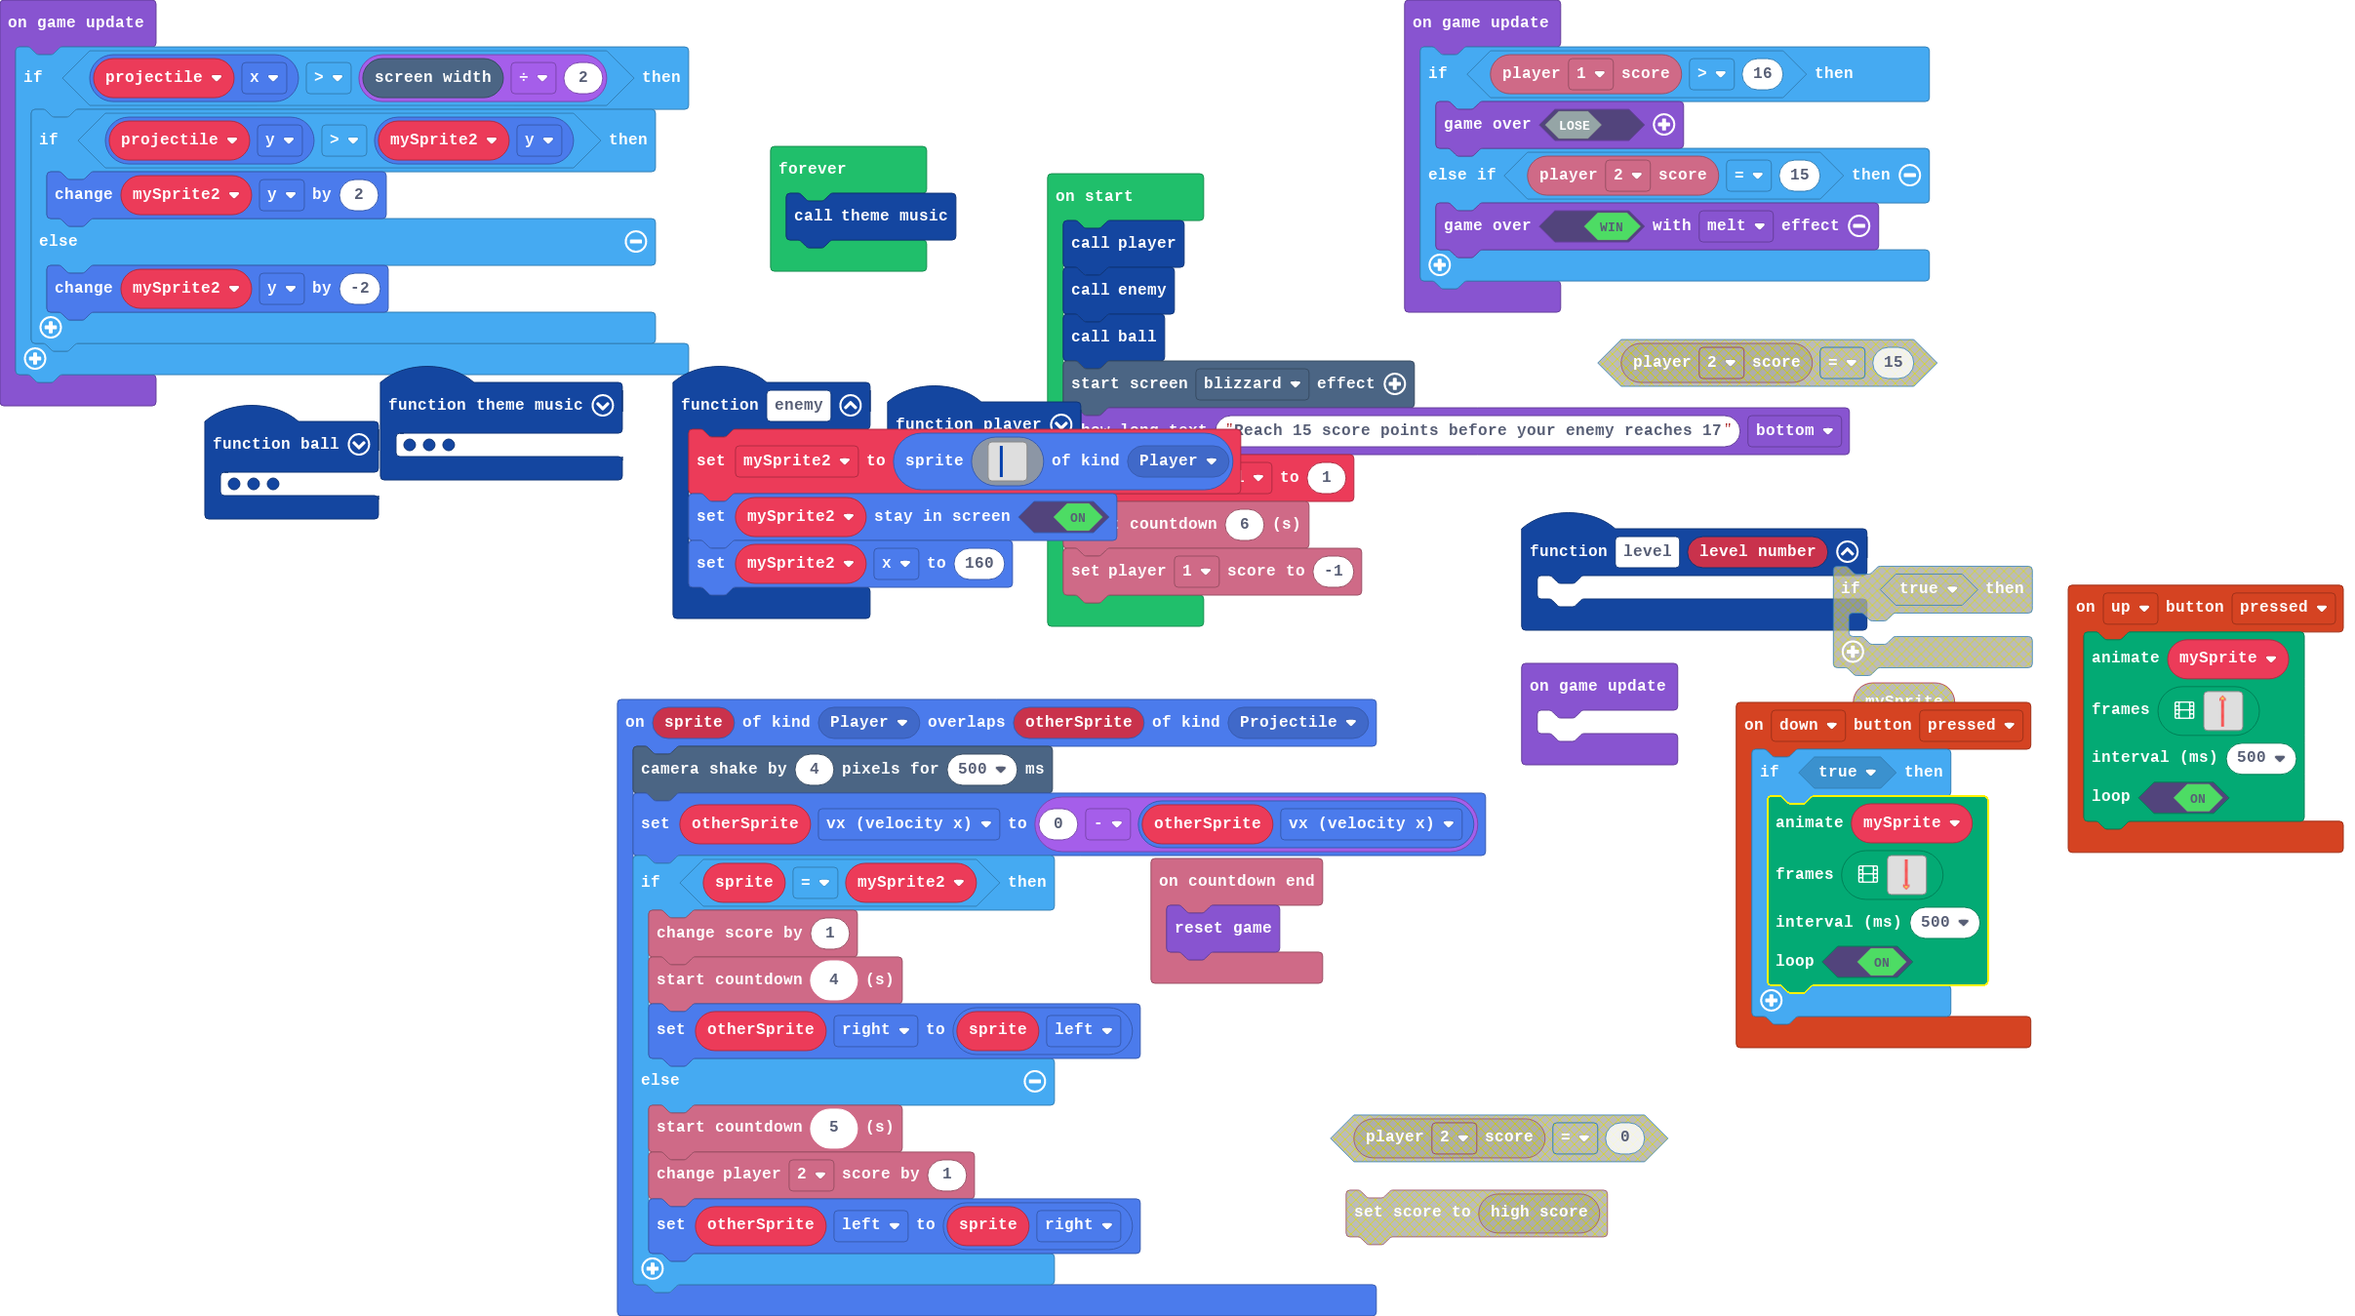
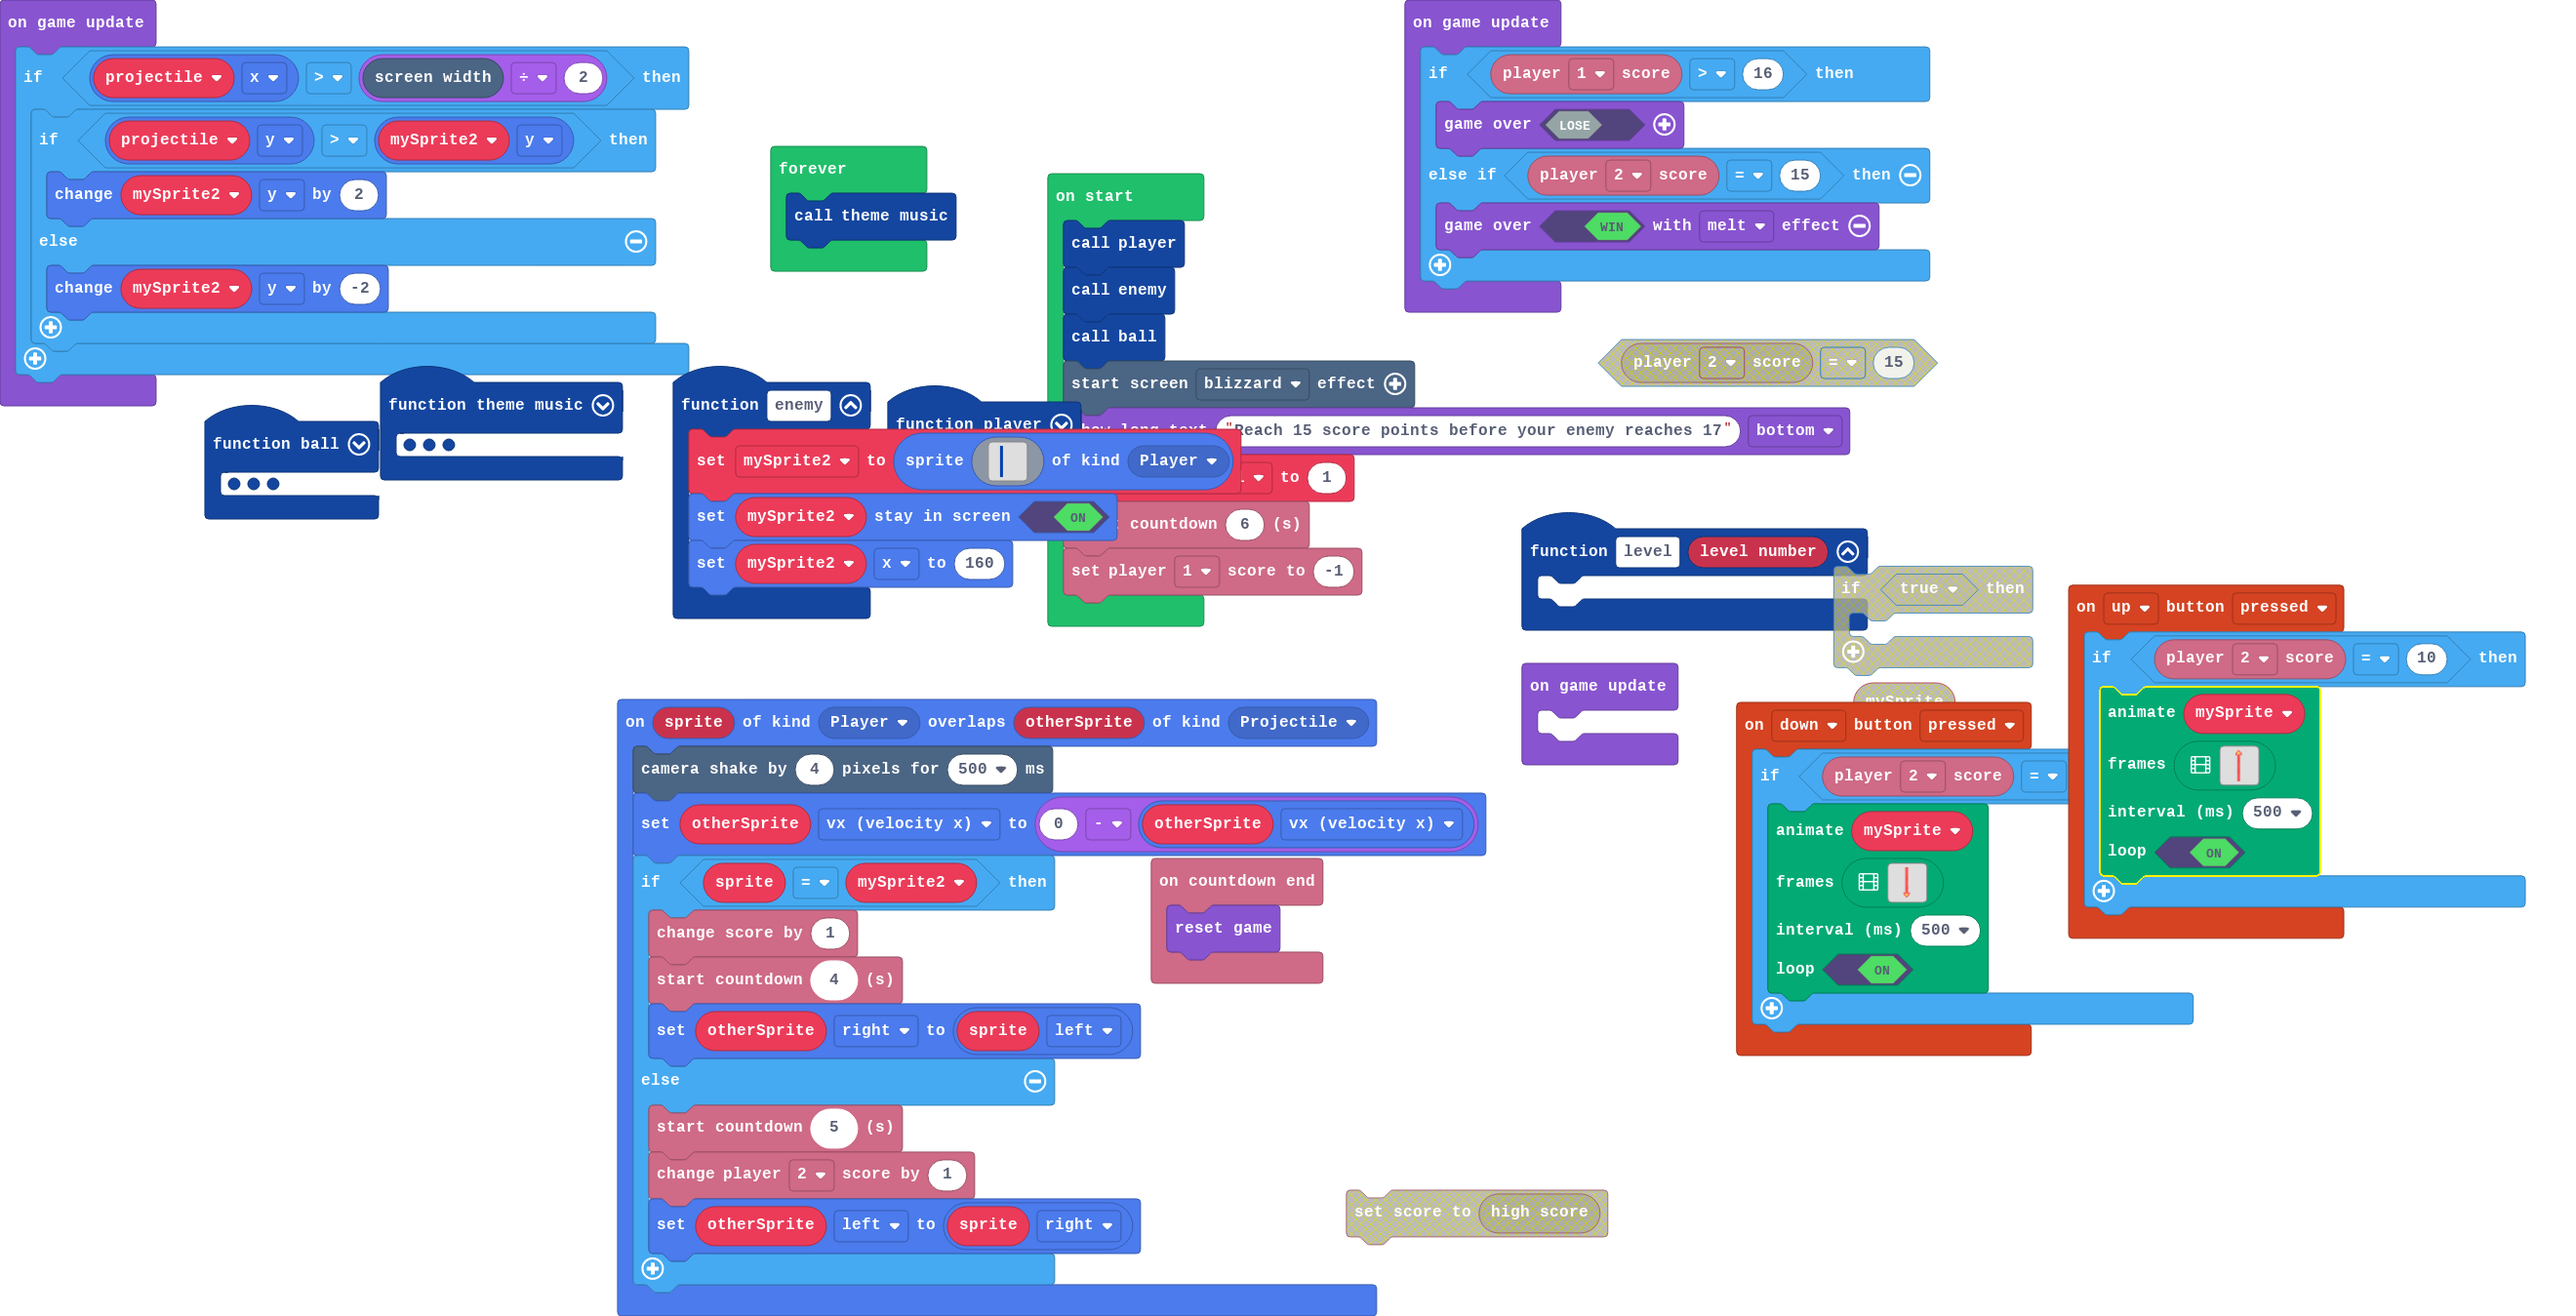
Update main.blocks, main.ts

diff --git a/main.ts b/main.ts
@@ -1,46 +1,48 @@
 controller.up.onEvent(ControllerButtonEvent.Pressed, function () {
-    animation.runImageAnimation(
-    mySprite,
-    [img`
-        . . . 2 . . . 
-        . . 2 4 2 . . 
-        . 2 4 5 4 2 . 
-        2 4 5 5 5 4 2 
-        2 2 4 4 4 2 2 
-        2 . 2 2 2 . 2 
-        . . 2 2 2 . . 
-        . . 2 2 2 . . 
-        . . 2 2 2 . . 
-        . . 2 2 2 . . 
-        . . 2 2 2 . . 
-        . . 2 2 2 . . 
-        . . 2 2 2 . . 
-        . . 2 2 2 . . 
-        . . 2 2 2 . . 
-        . . 2 2 2 . . 
-        . . 2 2 2 . . 
-        . . 2 2 2 . . 
-        . . 2 2 2 . . 
-        . . 2 2 2 . . 
-        . . 2 2 2 . . 
-        . . 2 2 2 . . 
-        . . 2 2 2 . . 
-        . . 2 2 2 . . 
-        . . 2 2 2 . . 
-        . . 2 2 2 . . 
-        . . 2 2 2 . . 
-        . . 2 2 2 . . 
-        . . 2 2 2 . . 
-        . . 2 2 2 . . 
-        . . 2 2 2 . . 
-        . . 2 2 2 . . 
-        . . 2 2 2 . . 
-        . . 2 2 2 . . 
-        . . 2 2 2 . . 
-        `],
-    500,
-    true
-    )
+    if (info.player2.score() == 10) {
+        animation.runImageAnimation(
+        mySprite,
+        [img`
+            . . . 2 . . . 
+            . . 2 4 2 . . 
+            . 2 4 5 4 2 . 
+            2 4 5 5 5 4 2 
+            2 2 4 4 4 2 2 
+            2 . 2 2 2 . 2 
+            . . 2 2 2 . . 
+            . . 2 2 2 . . 
+            . . 2 2 2 . . 
+            . . 2 2 2 . . 
+            . . 2 2 2 . . 
+            . . 2 2 2 . . 
+            . . 2 2 2 . . 
+            . . 2 2 2 . . 
+            . . 2 2 2 . . 
+            . . 2 2 2 . . 
+            . . 2 2 2 . . 
+            . . 2 2 2 . . 
+            . . 2 2 2 . . 
+            . . 2 2 2 . . 
+            . . 2 2 2 . . 
+            . . 2 2 2 . . 
+            . . 2 2 2 . . 
+            . . 2 2 2 . . 
+            . . 2 2 2 . . 
+            . . 2 2 2 . . 
+            . . 2 2 2 . . 
+            . . 2 2 2 . . 
+            . . 2 2 2 . . 
+            . . 2 2 2 . . 
+            . . 2 2 2 . . 
+            . . 2 2 2 . . 
+            . . 2 2 2 . . 
+            . . 2 2 2 . . 
+            . . 2 2 2 . . 
+            `],
+        500,
+        true
+        )
+    }
 })
 function level (level_number: Sprite) {
 	
@@ -193,7 +195,7 @@ function enemy () {
     mySprite2.x = 160
 }
 controller.down.onEvent(ControllerButtonEvent.Pressed, function () {
-    if (true) {
+    if (info.player2.score() == 10) {
         animation.runImageAnimation(
         mySprite,
         [img`
